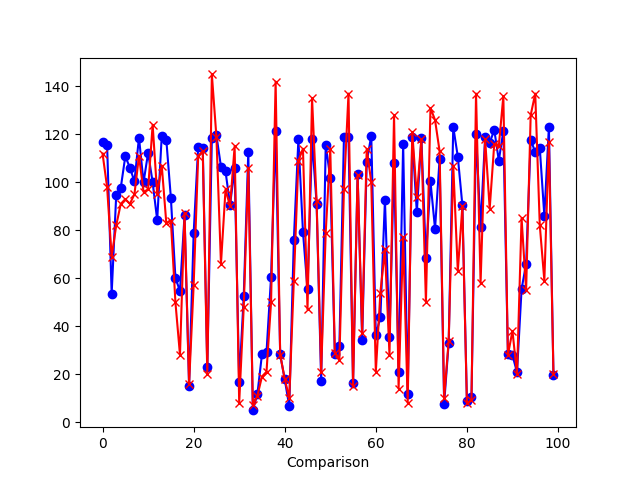
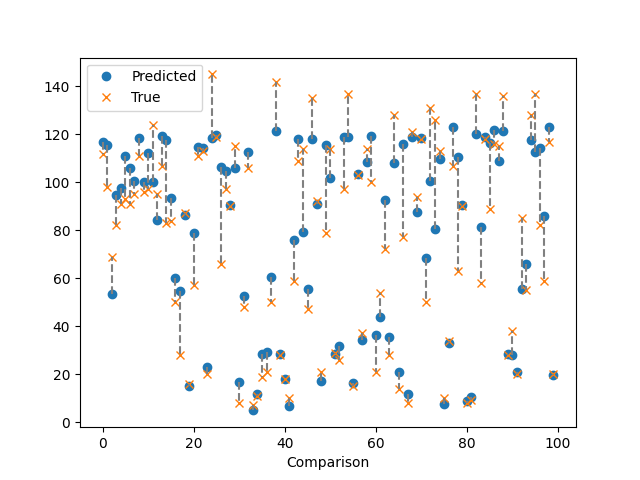
ajustado plots

Changed region(s): [[0.1562, 0.125, 0.875, 0.875]]

diff --git a/src/LSTM/LSTMDFTestComparison.py b/src/LSTM/LSTMDFTestComparison.py
@@ -10,10 +10,15 @@ engine_rul_values = np.array(list(engine_rul_pred.values()))
 
 # Create an x-axis for the indices
 x = np.arange(len(engine_rul_values))
-'''
+
 # Plot both arrays on the same graph
-plt.plot(x, engine_rul_values, label='Array 1', color='b', marker='o')  # Blue line with circle markers
-plt.plot(x, true_rul, label='Array 2', color='r', marker='x')  # Red line with x markers
+plt.plot(x, engine_rul_values, linestyle='None', marker='o', label='Predicted')
+plt.plot(x, true_rul, linestyle='None', marker='x', label='True')
+
+# vertical distances
+plt.vlines(x, engine_rul_values, true_rul, colors='gray', linestyles='dashed')
+
+plt.legend()
 
 # Adding labels and title
 plt.xlabel('Comparison')
@@ -33,3 +38,4 @@ plt.ylabel("Prediction Error (Pred - True)")
 plt.title("RUL Prediction Error per Engine")
 plt.savefig("plots/LSTM_error.png")
 print("Plot saved as LSTM_error.png")
+'''